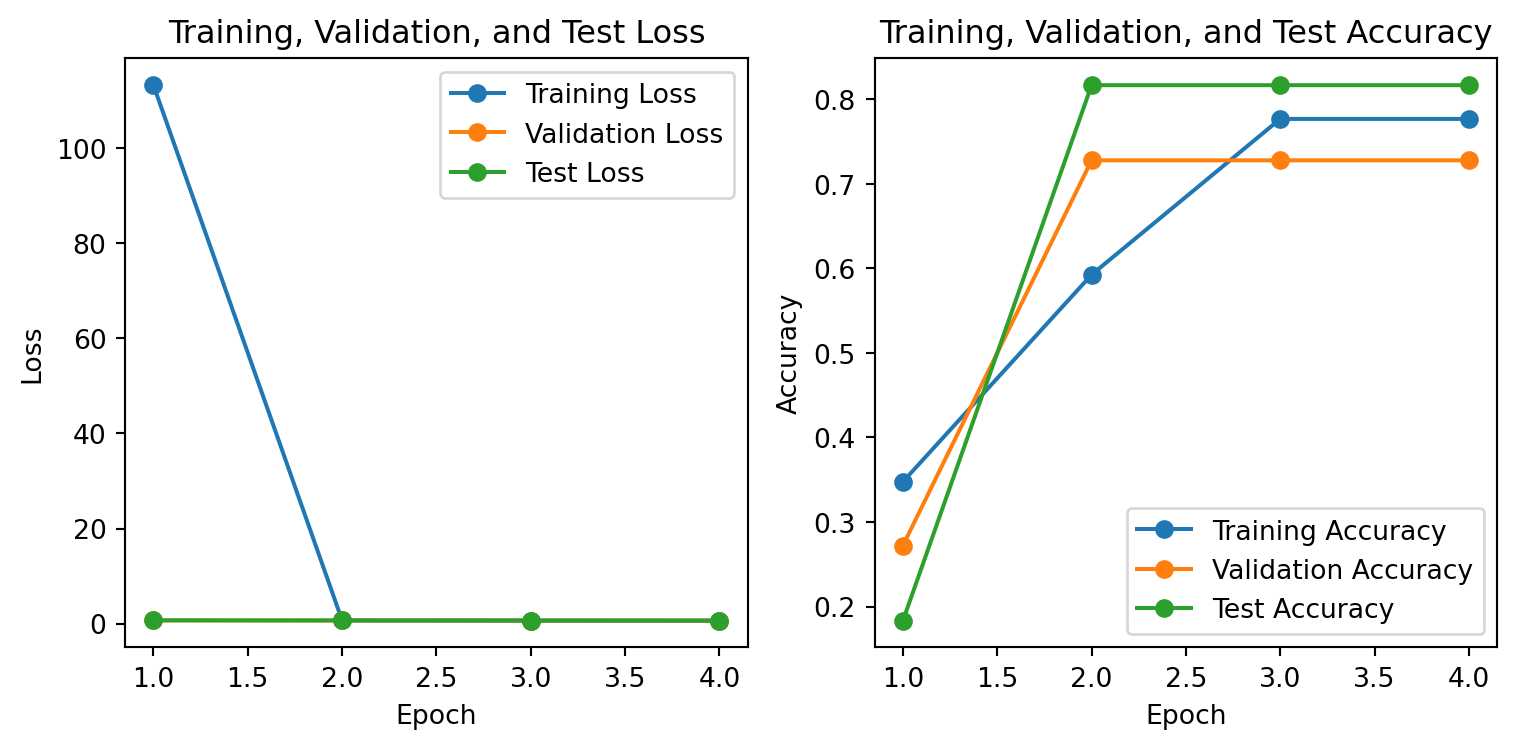
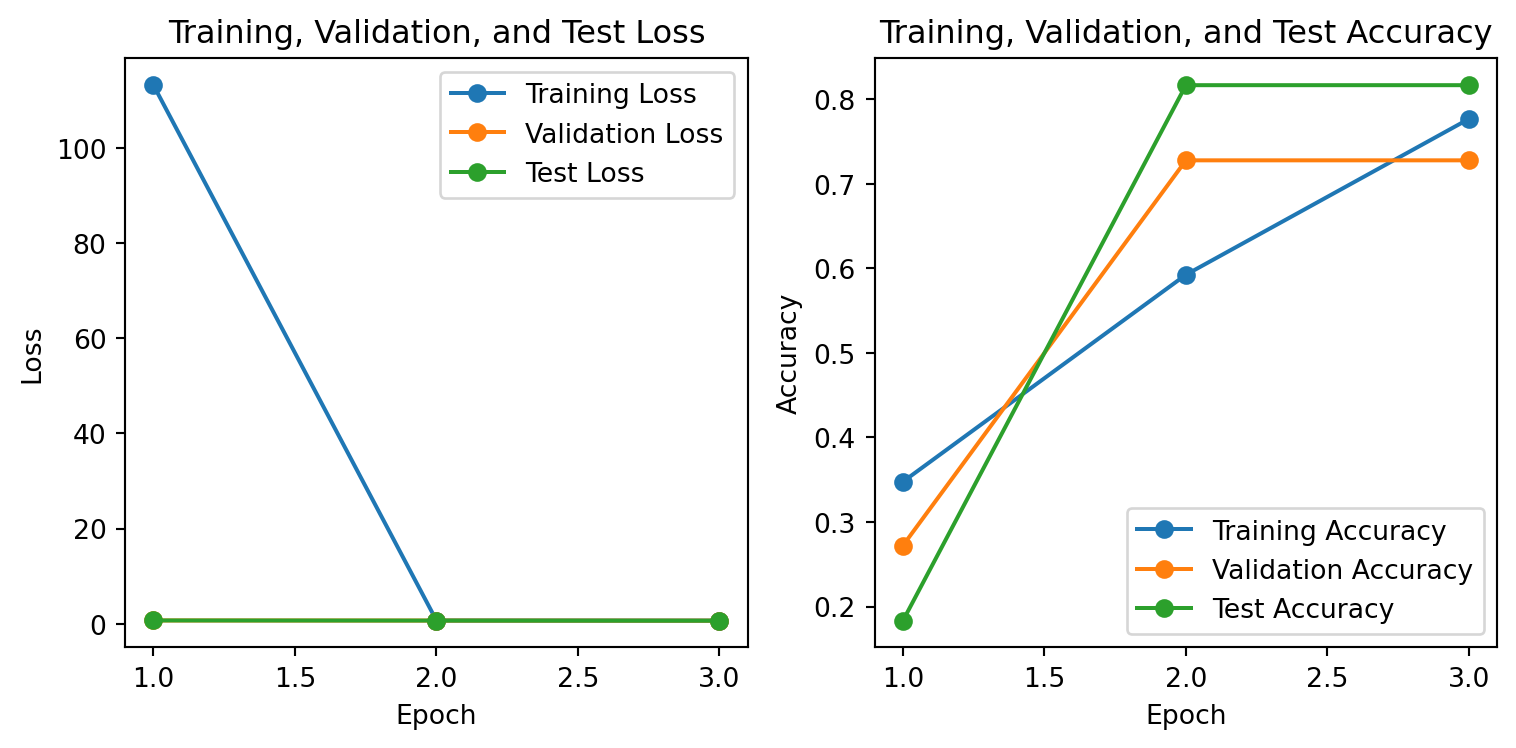
update

diff --git a/index.html b/index.html
@@ -207,16 +207,25 @@ Testing data number: 180</code></pre>
 <span id="cb4-8"><a href="#cb4-8" aria-hidden="true" tabindex="-1"></a><span class="bu">print</span>(<span class="st">'Loading BERT tokenizer...'</span>)</span>
 <span id="cb4-9"><a href="#cb4-9" aria-hidden="true" tabindex="-1"></a>tokenizer <span class="op">=</span> BertTokenizer.from_pretrained(<span class="st">'bert-base-uncased'</span>, do_lower_case<span class="op">=</span><span class="va">True</span>)</span>
 <span id="cb4-10"><a href="#cb4-10" aria-hidden="true" tabindex="-1"></a></span>
-<span id="cb4-11"><a href="#cb4-11" aria-hidden="true" tabindex="-1"></a>train_dataset <span class="op">=</span> preprocess_dataset(train_df, tokenizer, device)</span>
-<span id="cb4-12"><a href="#cb4-12" aria-hidden="true" tabindex="-1"></a>train_dataloader <span class="op">=</span> get_dataloader(train_dataset, RandomSampler, batch_size<span class="op">=</span><span class="dv">32</span>)</span>
-<span id="cb4-13"><a href="#cb4-13" aria-hidden="true" tabindex="-1"></a></span>
-<span id="cb4-14"><a href="#cb4-14" aria-hidden="true" tabindex="-1"></a>valid_dataset <span class="op">=</span> preprocess_dataset(valid_df, tokenizer, device)</span>
-<span id="cb4-15"><a href="#cb4-15" aria-hidden="true" tabindex="-1"></a>valid_dataloader <span class="op">=</span> get_dataloader(valid_dataset, SequentialSampler, batch_size<span class="op">=</span><span class="dv">32</span>)</span>
-<span id="cb4-16"><a href="#cb4-16" aria-hidden="true" tabindex="-1"></a></span>
-<span id="cb4-17"><a href="#cb4-17" aria-hidden="true" tabindex="-1"></a>test_dataset <span class="op">=</span> preprocess_dataset(test_df, tokenizer, device)</span>
-<span id="cb4-18"><a href="#cb4-18" aria-hidden="true" tabindex="-1"></a>test_dataloader <span class="op">=</span> get_dataloader(test_dataset, SequentialSampler, batch_size<span class="op">=</span><span class="dv">32</span>)</span>
-<span id="cb4-19"><a href="#cb4-19" aria-hidden="true" tabindex="-1"></a></span>
-<span id="cb4-20"><a href="#cb4-20" aria-hidden="true" tabindex="-1"></a><span class="bu">print</span>(train_dataset[<span class="dv">0</span>])</span></code><button title="Copy to Clipboard" class="code-copy-button"><i class="bi"></i></button></pre></div>
+<span id="cb4-11"><a href="#cb4-11" aria-hidden="true" tabindex="-1"></a><span class="co"># Define column lists</span></span>
+<span id="cb4-12"><a href="#cb4-12" aria-hidden="true" tabindex="-1"></a>col_lists <span class="op">=</span> {</span>
+<span id="cb4-13"><a href="#cb4-13" aria-hidden="true" tabindex="-1"></a>    <span class="st">'text_cols'</span>: [<span class="st">'AF'</span>, <span class="st">'TI'</span>, <span class="st">'AB'</span>, <span class="st">'DE'</span>, <span class="st">'ID'</span>, <span class="st">'SO'</span>, <span class="st">'CR'</span>, <span class="st">'Country'</span>],</span>
+<span id="cb4-14"><a href="#cb4-14" aria-hidden="true" tabindex="-1"></a>    <span class="st">'categorical_cols'</span>: [<span class="st">'single_case'</span>, <span class="st">'technology_use'</span>],</span>
+<span id="cb4-15"><a href="#cb4-15" aria-hidden="true" tabindex="-1"></a>    <span class="st">'numerical_cols'</span>: [<span class="st">'PY'</span>],</span>
+<span id="cb4-16"><a href="#cb4-16" aria-hidden="true" tabindex="-1"></a>    <span class="st">'label_col'</span>: [<span class="st">'included'</span>]</span>
+<span id="cb4-17"><a href="#cb4-17" aria-hidden="true" tabindex="-1"></a>}</span>
+<span id="cb4-18"><a href="#cb4-18" aria-hidden="true" tabindex="-1"></a></span>
+<span id="cb4-19"><a href="#cb4-19" aria-hidden="true" tabindex="-1"></a><span class="co"># Preprocess and create dataloaders</span></span>
+<span id="cb4-20"><a href="#cb4-20" aria-hidden="true" tabindex="-1"></a>train_dataset <span class="op">=</span> preprocess_dataset(train_df, tokenizer, device, col_lists)</span>
+<span id="cb4-21"><a href="#cb4-21" aria-hidden="true" tabindex="-1"></a>train_dataloader <span class="op">=</span> get_dataloader(train_dataset, RandomSampler, batch_size<span class="op">=</span><span class="dv">32</span>)</span>
+<span id="cb4-22"><a href="#cb4-22" aria-hidden="true" tabindex="-1"></a></span>
+<span id="cb4-23"><a href="#cb4-23" aria-hidden="true" tabindex="-1"></a>valid_dataset <span class="op">=</span> preprocess_dataset(valid_df, tokenizer, device, col_lists)</span>
+<span id="cb4-24"><a href="#cb4-24" aria-hidden="true" tabindex="-1"></a>valid_dataloader <span class="op">=</span> get_dataloader(valid_dataset, SequentialSampler, batch_size<span class="op">=</span><span class="dv">32</span>)</span>
+<span id="cb4-25"><a href="#cb4-25" aria-hidden="true" tabindex="-1"></a></span>
+<span id="cb4-26"><a href="#cb4-26" aria-hidden="true" tabindex="-1"></a>test_dataset <span class="op">=</span> preprocess_dataset(test_df, tokenizer, device, col_lists)</span>
+<span id="cb4-27"><a href="#cb4-27" aria-hidden="true" tabindex="-1"></a>test_dataloader <span class="op">=</span> get_dataloader(test_dataset, SequentialSampler, batch_size<span class="op">=</span><span class="dv">32</span>)</span>
+<span id="cb4-28"><a href="#cb4-28" aria-hidden="true" tabindex="-1"></a></span>
+<span id="cb4-29"><a href="#cb4-29" aria-hidden="true" tabindex="-1"></a><span class="bu">print</span>(train_dataset[<span class="dv">0</span>])</span></code><button title="Copy to Clipboard" class="code-copy-button"><i class="bi"></i></button></pre></div>
 <div class="cell-output cell-output-stdout">
 <pre><code>Loading BERT tokenizer...
 (tensor([1.0100e+02, 1.5540e+04, 5.8040e+03,  ..., 0.0000e+00, 1.0000e+00,
@@ -233,7 +242,7 @@ Testing data number: 180</code></pre>
 <span id="cb6-5"><a href="#cb6-5" aria-hidden="true" tabindex="-1"></a><span class="co"># Define loss function and optimizer</span></span>
 <span id="cb6-6"><a href="#cb6-6" aria-hidden="true" tabindex="-1"></a>criterion <span class="op">=</span> nn.CrossEntropyLoss()  </span>
 <span id="cb6-7"><a href="#cb6-7" aria-hidden="true" tabindex="-1"></a>optimizer <span class="op">=</span> optim.Adam(model.parameters(), lr<span class="op">=</span><span class="fl">0.001</span>) </span>
-<span id="cb6-8"><a href="#cb6-8" aria-hidden="true" tabindex="-1"></a>epochs <span class="op">=</span> <span class="dv">4</span></span>
+<span id="cb6-8"><a href="#cb6-8" aria-hidden="true" tabindex="-1"></a>epochs <span class="op">=</span> <span class="dv">3</span></span>
 <span id="cb6-9"><a href="#cb6-9" aria-hidden="true" tabindex="-1"></a></span>
 <span id="cb6-10"><a href="#cb6-10" aria-hidden="true" tabindex="-1"></a><span class="co"># Train the model</span></span>
 <span id="cb6-11"><a href="#cb6-11" aria-hidden="true" tabindex="-1"></a>training_losses, validation_losses, test_losses, training_accuracies, validation_accuracies, test_accuracies <span class="op">=</span> train_model(</span>
@@ -241,18 +250,15 @@ Testing data number: 180</code></pre>
 <span id="cb6-13"><a href="#cb6-13" aria-hidden="true" tabindex="-1"></a>    train_dataloader, valid_dataloader, test_dataloader,</span>
 <span id="cb6-14"><a href="#cb6-14" aria-hidden="true" tabindex="-1"></a>    criterion, optimizer, device, epochs)</span></code><button title="Copy to Clipboard" class="code-copy-button"><i class="bi"></i></button></pre></div>
 <div class="cell-output cell-output-stdout">
-<pre><code>Epoch 1/4, Training Loss: 113.2159, Training Accuracy: 0.3477
+<pre><code>Epoch 1/3, Training Loss: 113.2159, Training Accuracy: 0.3477
 Validation Loss: 0.7005, Validation Accuracy: 0.2722
 Test Loss: 0.7029, Test Accuracy: 0.1833
-Epoch 2/4, Training Loss: 0.6887, Training Accuracy: 0.5925
+Epoch 2/3, Training Loss: 0.6887, Training Accuracy: 0.5925
 Validation Loss: 0.6798, Validation Accuracy: 0.7278
 Test Loss: 0.6753, Test Accuracy: 0.8167
-Epoch 3/4, Training Loss: 0.6660, Training Accuracy: 0.7768
+Epoch 3/3, Training Loss: 0.6660, Training Accuracy: 0.7768
 Validation Loss: 0.6623, Validation Accuracy: 0.7278
-Test Loss: 0.6511, Test Accuracy: 0.8167
-Epoch 4/4, Training Loss: 0.6465, Training Accuracy: 0.7768
-Validation Loss: 0.6474, Validation Accuracy: 0.7278
-Test Loss: 0.6302, Test Accuracy: 0.8167</code></pre>
+Test Loss: 0.6511, Test Accuracy: 0.8167</code></pre>
 </div>
 </div>
 </div>

diff --git a/sources/preprocess.py b/sources/preprocess.py
@@ -1,74 +1,77 @@
+from torch.utils.data import Dataset, Sampler, DataLoader
 import torch
-from transformers import BertTokenizer
 from torch.utils.data import TensorDataset, DataLoader
-from sklearn.preprocessing import OneHotEncoder, MinMaxScaler
+from sklearn.preprocessing import OneHotEncoder
 
-# Preprocess text, categorical, and numeric Data
-def preprocess_dataset(data, tokenizer, device):
+
+from sklearn.preprocessing import OneHotEncoder
+import torch
+from torch.utils.data import TensorDataset
+
+def preprocess_dataset(data, tokenizer, device, col_lists):
     """
-    Preprocesses the input dataset by tokenizing the text columns, converting categorical and numerical columns to tensors,
-    and concatenating all the input data tensors. The label column is also converted to a tensor.
+    Preprocesses the input dataset by encoding text, categorical, and numerical data, and concatenating them into a single tensor.
 
     Args:
-        data (pandas.DataFrame): The input dataset.
-        tokenizer (transformers.PreTrainedTokenizer): The tokenizer to use for tokenizing the text columns.
-        device (str): The device to use for the tensors.
+        data (pandas.DataFrame): The input dataset to preprocess.
+        tokenizer (transformers.PreTrainedTokenizer): The tokenizer to use for encoding text data.
+        device (str): The device to use for processing the tensors (either 'cpu' or 'cuda').
+        col_lists (dict): A dictionary containing column names or lists of column names for text, categorical, numerical, and label data.
 
     Returns:
-        torch.utils.data.TensorDataset: The preprocessed dataset as a TensorDataset object.
+        torch.utils.data.TensorDataset: A PyTorch TensorDataset containing the preprocessed input data and labels.
     """
-def preprocess_dataset(data, tokenizer, device):
-    
     device = 'cuda' if torch.cuda.is_available() else 'cpu'
-    text_cols = data[['AF', 'TI', 'AB', 'DE', 'ID', 'SO', 'CR', 'Country']]
+
+    for key in ['text_cols', 'categorical_cols', 'numerical_cols']:
+        if key in col_lists and not isinstance(col_lists[key], list):
+            col_lists[key] = [col_lists[key]]  
+
+    # Process text columns
     text_embeddings = []
     attention_masks = []
-    for (i, row) in data.iterrows():  
-        combined = ''
-        for col in text_cols:  
-            combined += (str(row[col]) + '[SEP] ')
-        tokenized = tokenizer.encode_plus(
-            combined,
-            max_length=512,
-            padding="max_length",
-            truncation=True,
-            return_tensors="pt"
-        )
-        
-        text_embeddings.append(tokenized["input_ids"])
-        attention_masks.append(tokenized["attention_mask"])
-    
-    text_embeddings = torch.cat(text_embeddings, dim=0)
-    attention_masks = torch.cat(attention_masks, dim=0)
+    if 'text_cols' in col_lists:
+        for _, row in data.iterrows():
+            combined_text = '[SEP] '.join(row[col_lists['text_cols']].astype(str)) + '[SEP]'
+            tokenized = tokenizer.encode_plus(
+                combined_text,
+                max_length=512,
+                padding="max_length",
+                truncation=True,
+                return_tensors="pt"
+            )
+            text_embeddings.append(tokenized["input_ids"])
+            attention_masks.append(tokenized["attention_mask"])
 
-    # Convert categorical data (one-hot encoding)
-    categorical_cols = data[['single_case', 'technology_use']]
-    encoder = OneHotEncoder(handle_unknown='ignore')
-    encoded_categorical_cols = encoder.fit_transform(categorical_cols)
-    encoded_categorical_cols_np = encoded_categorical_cols.toarray()
-    categorical_tensor = torch.tensor(encoded_categorical_cols_np, dtype=torch.float32).to(device)
+    text_embeddings = torch.cat(text_embeddings, dim=0) if text_embeddings else torch.tensor([], device=device)
+    attention_masks = torch.cat(attention_masks, dim=0) if attention_masks else torch.tensor([], device=device)
 
-    # Convert numerical data (publication year) 
-    numerical_cols = data[['PY']]
-    numerical_cols_np = numerical_cols.values
-    numeric_tensor = torch.tensor(numerical_cols_np, dtype=torch.float32).to(device)
+    # Process categorical data
+    categorical_tensor = torch.tensor([], device=device)
+    if 'categorical_cols' in col_lists and col_lists['categorical_cols']:
+        encoder = OneHotEncoder(handle_unknown='ignore')
+        encoded_categorical = encoder.fit_transform(data[col_lists['categorical_cols']])
+        categorical_tensor = torch.tensor(encoded_categorical.toarray(), dtype=torch.float32).to(device)
+    else:
+        categorical_tensor = torch.tensor([], device=device)
+
+    # Process numerical data
+    numeric_tensor = torch.tensor(data[col_lists['numerical_cols']].values, dtype=torch.float32).to(device) if 'numerical_cols' in col_lists else torch.tensor([], device=device)
 
     # Concatenate all the input data tensors
     combined_tensors = torch.cat([text_embeddings, attention_masks, categorical_tensor, numeric_tensor], dim=1)
-    input_size = combined_tensors.size(1)
 
-    # Convert the label data (one-hot encoding)
-    label_col = data[['included']]
+    # Process label data
     encoder = OneHotEncoder(handle_unknown='ignore')
-    encoded_label_col = encoder.fit_transform(label_col)
-    encoded_label_col_np = encoded_label_col.toarray()
-    label_tensor = torch.tensor(encoded_label_col_np, dtype=torch.float32).to(device)
+    label_cols = col_lists.get('label_col', [])
+    if isinstance(label_cols, str):
+        label_cols = [label_cols]
+    encoded_label_col = encoder.fit_transform(data[label_cols])
+    label_tensor = torch.tensor(encoded_label_col.toarray(), dtype=torch.float32).to(device)
 
-    return TensorDataset(combined_tensors, label_tensor)  
+    return TensorDataset(combined_tensors, label_tensor)
 
 # Create a DataLoader
-from torch.utils.data import Dataset, Sampler, DataLoader
-
 def get_dataloader(dataset: Dataset, sampler: Sampler, batch_size: int) -> DataLoader:
     """
     Returns a DataLoader object that batches data from the given dataset using the given sampler.
@@ -82,6 +85,6 @@ def get_dataloader(dataset: Dataset, sampler: Sampler, batch_size: int) -> DataL
         DataLoader: The DataLoader object that batches data from the given dataset using the given sampler.
     """
     data_sampler = sampler(dataset)
-    dataloader = DataLoader(dataset, sampler=data_sampler, batch_size=batch_size)
+    dataloader = DataLoader(
+        dataset, sampler=data_sampler, batch_size=batch_size)
     return dataloader
-    
